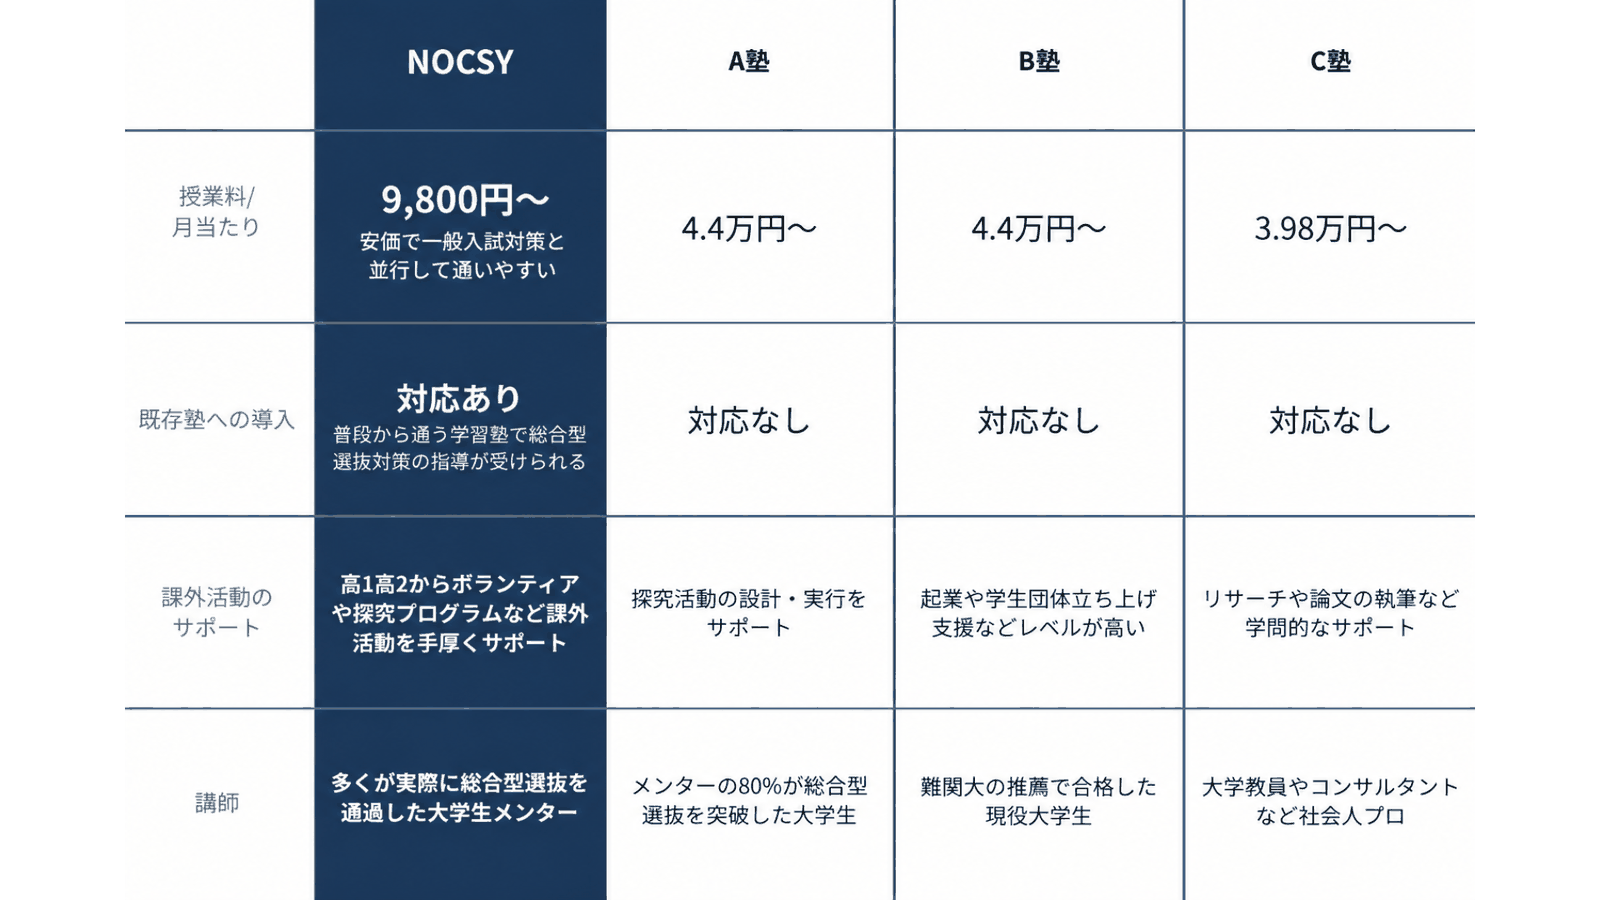
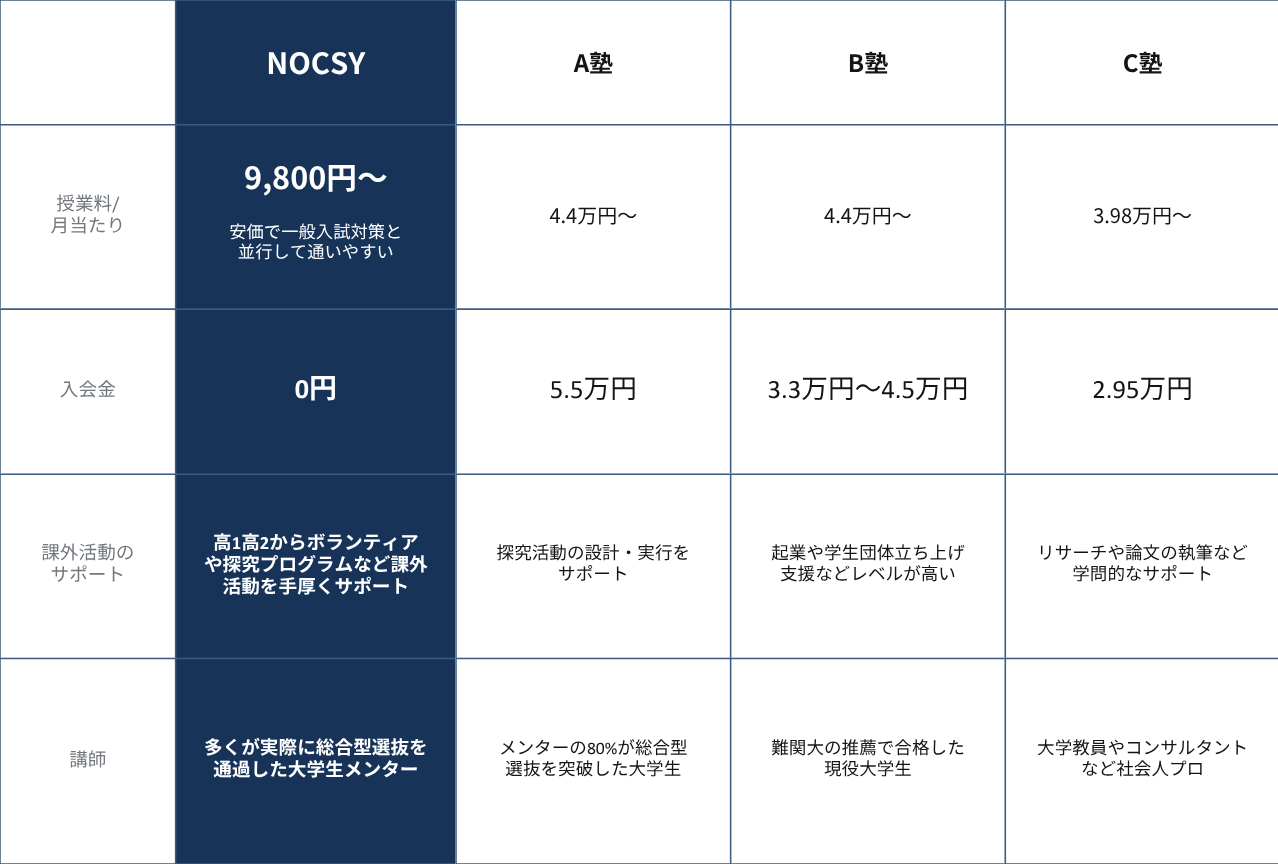
Use the corrected comparison with the entry fee row

diff --git a/app/nocsy-juku/page.tsx b/app/nocsy-juku/page.tsx
@@ -91,10 +91,9 @@ const COMPARE = [
     others: ['4.4万円〜', '4.4万円〜', '3.98万円〜'],
   },
   {
-    label: '既存塾への導入',
-    nocsy: '対応あり',
-    note: '普段から通う学習塾で総合型選抜対策の指導が受けられる',
-    others: ['対応なし', '対応なし', '対応なし'],
+    label: '入会金',
+    nocsy: '0円',
+    others: ['5.5万円', '3.3万〜4.5万円', '2.95万円'],
   },
   {
     label: '課外活動のサポート',
